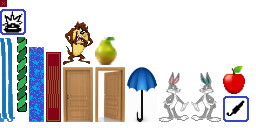
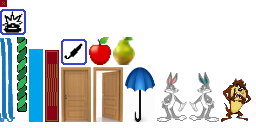
Fixed actor's width to increase convenience on touch screens

Changed region(s): [[0.0938, 0.1562, 1.0, 0.9688]]

diff --git a/core/src/ru/mitrakov/self/rush/screens/Gui.java b/core/src/ru/mitrakov/self/rush/screens/Gui.java
@@ -8,6 +8,7 @@ import com.badlogic.gdx.scenes.scene2d.Actor;
 import com.badlogic.gdx.scenes.scene2d.InputEvent;
 import com.badlogic.gdx.scenes.scene2d.utils.ClickListener;
 
+import ru.mitrakov.self.rush.*;
 import ru.mitrakov.self.rush.model.*;
 import ru.mitrakov.self.rush.model.object.*;
 
@@ -40,8 +41,10 @@ class Gui extends Actor {
         }
     }
 
-    private static final int CELL_SIZ_W = 15;
+    private static final int CELL_SIZ_W = 14;
     private static final int CELL_SIZ_H = 85;
+    private static final int OFFSET_X = (RushClient.WIDTH - Field.WIDTH * CELL_SIZ_W) / 2; // (800 - 51*14) / 2
+    private static final int OFFSET_Y = 33; // inferred by expertise
 
     private final Model model;
     private final InputController controller;
@@ -52,15 +55,15 @@ class Gui extends Actor {
     private final Map<Class, TextureRegion> texturesUp = new HashMap<Class, TextureRegion>(20);
 
     private static float convertXFromModelToScreen(int x) {
-        return (x + 1) * CELL_SIZ_W + 3;  // +3 to smooth an inaccuracy
+        return x * CELL_SIZ_W + OFFSET_X;
     }
 
     private static float convertYFromModelToScreen(int y) {
-        return (Field.HEIGHT - y) * CELL_SIZ_H - .5f * CELL_SIZ_H - 1; // -1 to smooth an inaccuracy
+        return (Field.HEIGHT - y) * CELL_SIZ_H - OFFSET_Y;
     }
 
     static int convertXFromScreenToModel(float x) {
-        return (int) (x / CELL_SIZ_W);
+        return (int) ((x - OFFSET_X) / CELL_SIZ_W);
     }
 
     static int convertYFromScreenToModel(float y) {
@@ -73,7 +76,8 @@ class Gui extends Actor {
         controller = new InputController(model);
         addListener(listener);
 
-        setWidth(Field.WIDTH * CELL_SIZ_W);
+        // in theory width must be "Field.WIDTH * CELL_SIZ_W", but we use full width for convenience on touch screens
+        setWidth(RushClient.WIDTH);
         setHeight(Field.HEIGHT * CELL_SIZ_H);
 
         Class downClasses[] = new Class[]{Block.class, Dias.class, Water.class};
@@ -102,7 +106,6 @@ class Gui extends Actor {
             for (int j = 0; j < Field.HEIGHT; j++) {
                 for (int i = 0; i < Field.WIDTH; i++) {
                     Cell cell = field.cells[j * Field.WIDTH + i]; // cell must NOT be NULL (assert omitted)
-                    // @mitrakov: "Map::getOrDefault" requires too high Level API (24), so we use usual "Map::get"
                     // draw bottom (block/water/dias)
                     float bottomWidth = CELL_SIZ_W;
                     float bottomHeight = 0;

diff --git a/core/src/ru/mitrakov/self/rush/dialogs/DialogInvite.java b/core/src/ru/mitrakov/self/rush/dialogs/DialogInvite.java
@@ -30,7 +30,7 @@ public class DialogInvite extends Dialog {
         this.stage = stage;
 
         lblQuestion = new Label("", skin, "default");
-        chkAddToFriends = new CheckBox(" add to friends", skin, "default");
+        chkAddToFriends = new CheckBox(" add to friends", skin, "default"); // not checked by default
 
         button("OK", true);
         button("Cancel");
@@ -68,7 +68,7 @@ public class DialogInvite extends Dialog {
         assert type != null;
         this.type = type;
         this.name = name;
-        chkAddToFriends.setChecked(!model.friends.contains(name));
+        chkAddToFriends.setVisible(!model.friends.contains(name));
         return this;
     }
 

diff --git a/core/src/ru/mitrakov/self/rush/model/Model.java b/core/src/ru/mitrakov/self/rush/model/Model.java
@@ -581,10 +581,12 @@ public class Model {
 
     public void friendAdded(String name) {
         friends.add(name);
+        friendsListTime = System.currentTimeMillis();
     }
 
     public void friendRemoved(String name) {
         friends.remove(name);
+        friendsListTime = System.currentTimeMillis();
     }
 
     public synchronized void setRangeOfProducts(final int[] data) {
@@ -652,8 +654,8 @@ public class Model {
     }
 
     public void setNewField(int[] fieldData) {
-        curThing = null;
-        curActor = null;
+        curThing = curActor = null;
+        score1 = score2 = 0;
         field = new Field(fieldData);
     }
 

diff --git a/core/src/ru/mitrakov/self/rush/screens/ScreenBattle.java b/core/src/ru/mitrakov/self/rush/screens/ScreenBattle.java
@@ -26,7 +26,7 @@ import ru.mitrakov.self.rush.dialogs.DialogFinished;
 public class ScreenBattle extends ScreenAdapter {
     private final Model model;
     private final PsObject psObject;
-    private final Stage stage = new Stage(new FitViewport(800, 480));
+    private final Stage stage = new Stage(new FitViewport(RushClient.WIDTH, RushClient.HEIGHT));
     private final Table table = new Table();
     private final Actor gui;
     private final ImageButton btnThing;

diff --git a/desktop/src/ru/mitrakov/self/rush/desktop/DesktopLauncher.java b/desktop/src/ru/mitrakov/self/rush/desktop/DesktopLauncher.java
@@ -16,8 +16,8 @@ public class DesktopLauncher extends JFrame {
             @Override
             public void run() {
                 final LwjglApplicationConfiguration config = new LwjglApplicationConfiguration();
-                config.width = 800;
-                config.height = 480;
+                config.width = RushClient.WIDTH;
+                config.height = RushClient.HEIGHT;
                 new DesktopLauncher(config);
             }
         });

diff --git a/core/src/ru/mitrakov/self/rush/screens/ScreenMain.java b/core/src/ru/mitrakov/self/rush/screens/ScreenMain.java
@@ -34,7 +34,7 @@ public class ScreenMain extends ScreenAdapter {
     private final Model model;
     private final PsObject psObject;
 
-    private final Stage stage = new Stage(new FitViewport(800, 480));
+    private final Stage stage = new Stage(new FitViewport(RushClient.WIDTH, RushClient.HEIGHT));
     private final Table tableMain = new Table();
     private final Table tableLeft = new Table();
     private final Table tableRight = new Table();

diff --git a/core/src/ru/mitrakov/self/rush/screens/ScreenLogin.java b/core/src/ru/mitrakov/self/rush/screens/ScreenLogin.java
@@ -22,7 +22,7 @@ public class ScreenLogin extends ScreenAdapter {
     private final RushClient game;
     private final Model model;
     private final PsObject psObject;
-    private final Stage stage = new Stage(new FitViewport(800, 480));
+    private final Stage stage = new Stage(new FitViewport(RushClient.WIDTH, RushClient.HEIGHT));
     private final Table table = new Table();
 
     private final TextField txtLogin; // ....

diff --git a/core/src/ru/mitrakov/self/rush/RushClient.java b/core/src/ru/mitrakov/self/rush/RushClient.java
@@ -8,6 +8,9 @@ import ru.mitrakov.self.rush.net.Network;
 import ru.mitrakov.self.rush.screens.*;
 
 public class RushClient extends Game {
+    public static final int WIDTH = 800;
+    public static final int HEIGHT = 480;
+
     private final Model model = new Model();
     private final PsObject psObject; // may be NULL
     private /*final*/ Skin skin;

diff --git a/core/src/ru/mitrakov/self/rush/dialogs/DialogIncoming.java b/core/src/ru/mitrakov/self/rush/dialogs/DialogIncoming.java
@@ -38,6 +38,7 @@ public class DialogIncoming extends Dialog {
 
     @Override
     public Dialog show(Stage stage) {
+        chkAddToFriends.setVisible(!model.friends.contains(model.enemy));
         lblQuestion.setText(String.format("%s wants to attack you! Do you wanna accept a battle?", model.enemy));
         return super.show(stage);
     }
